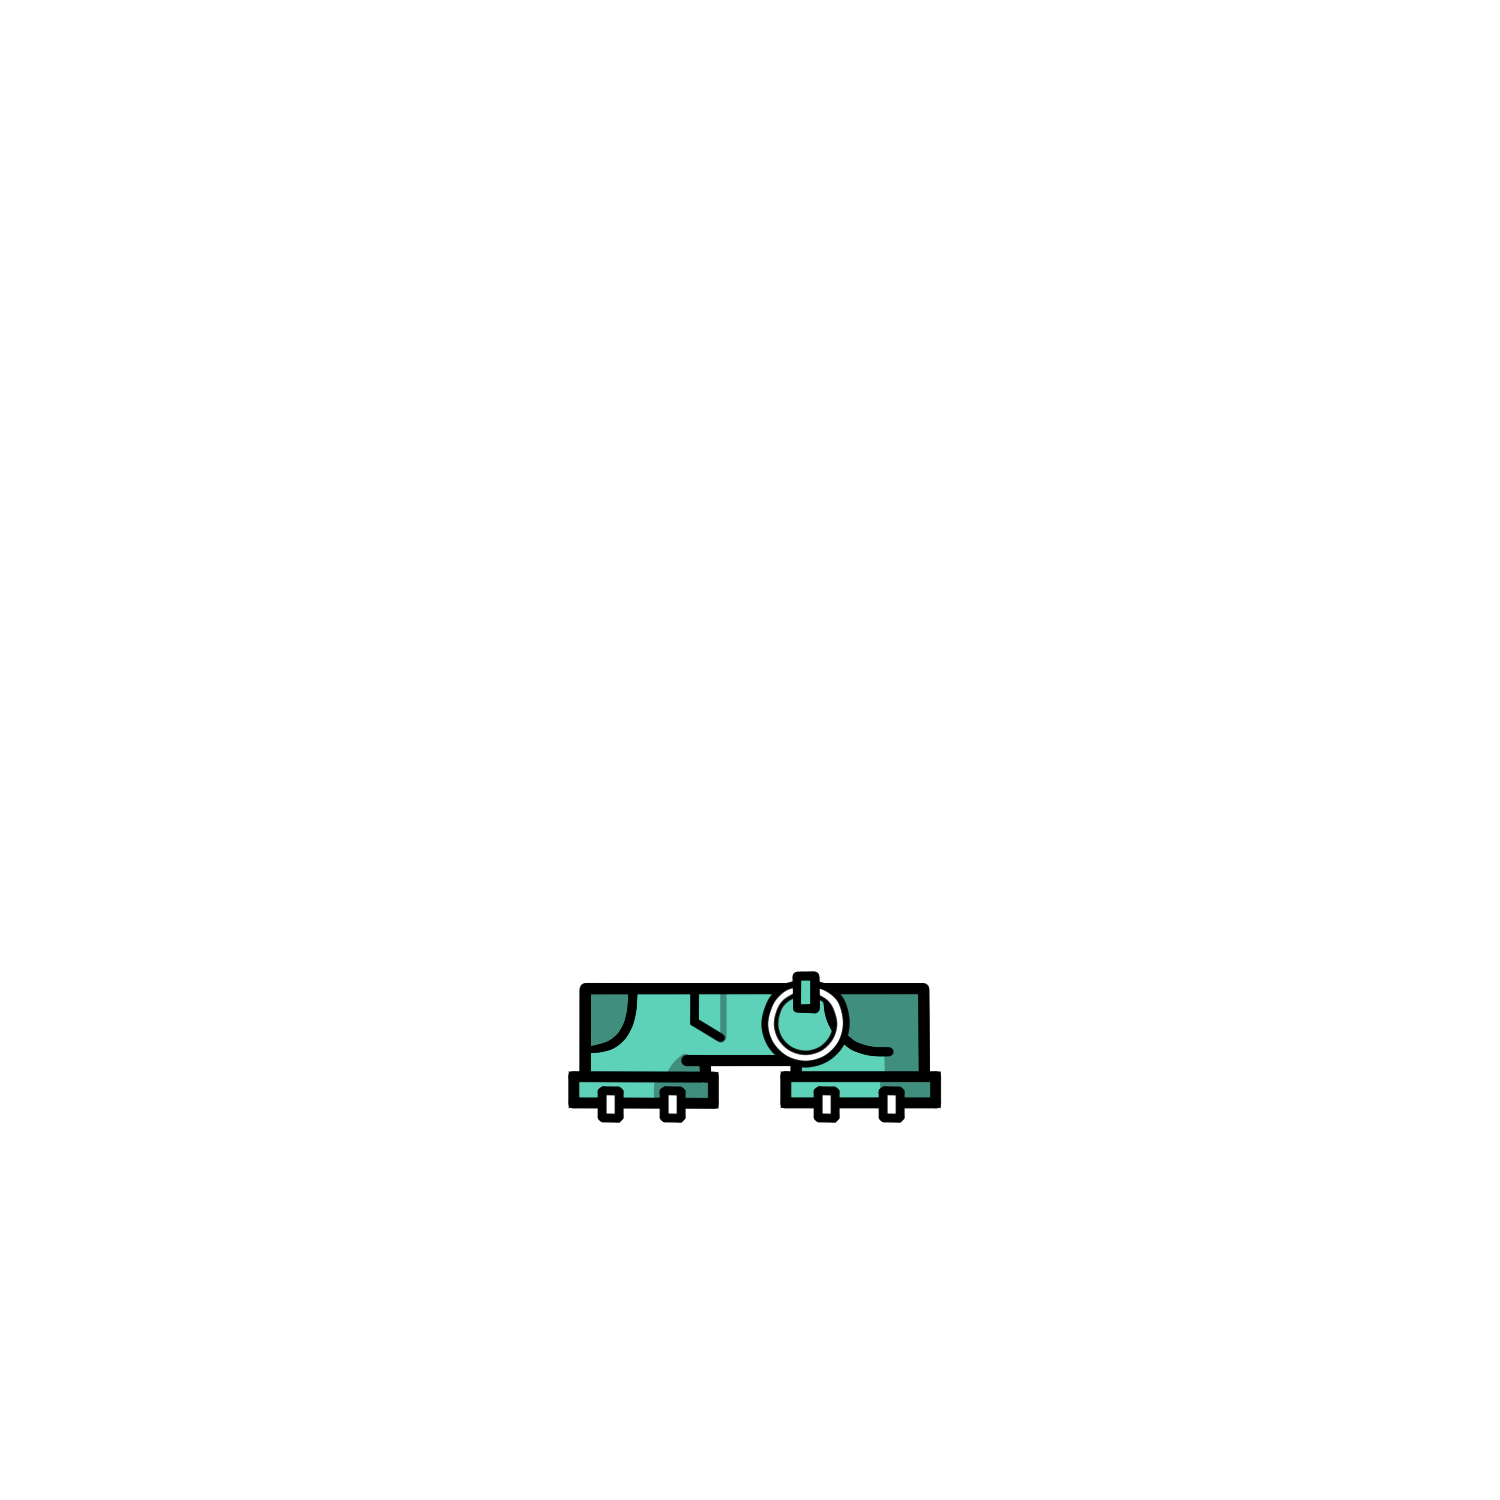
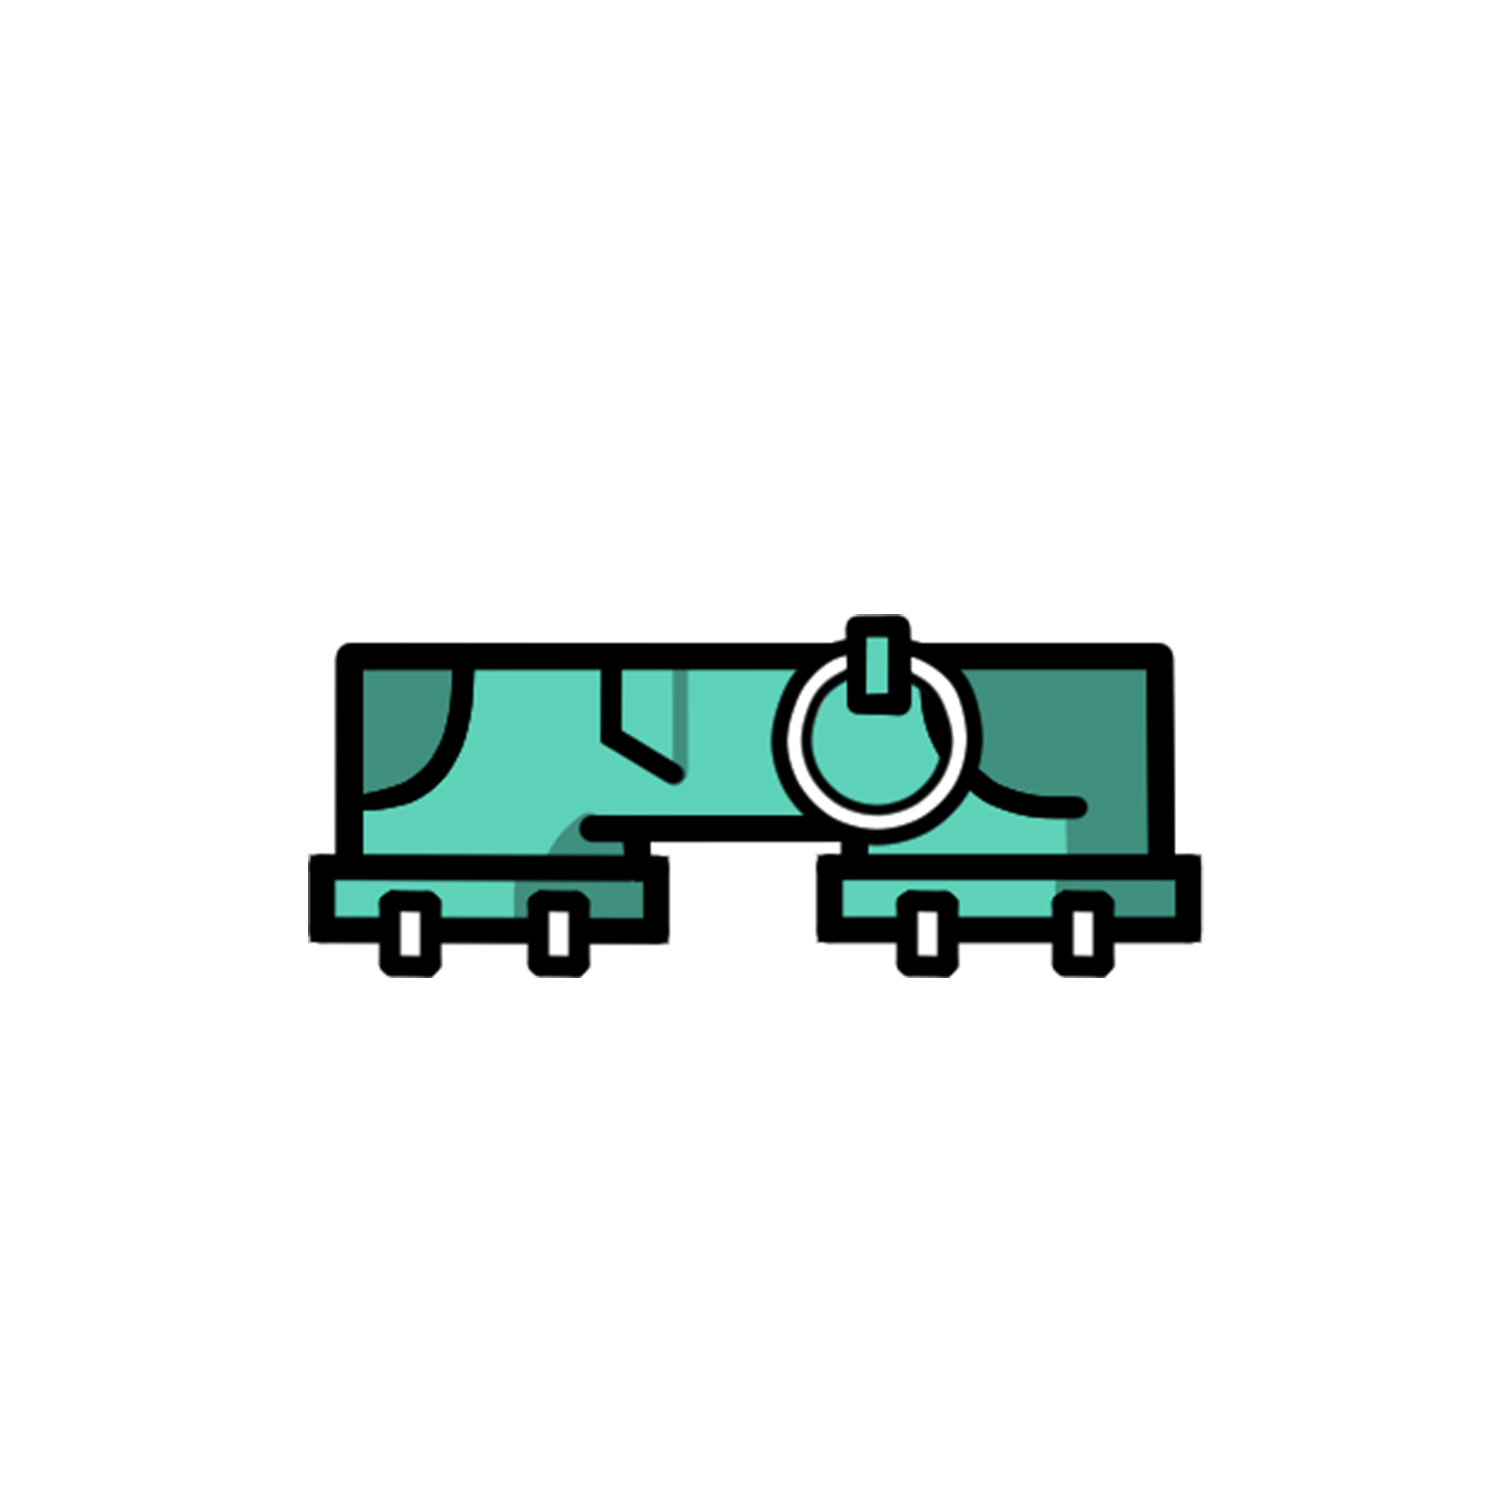
bottom-low-수정

Changed region(s): [[0.184, 0.3987, 0.828, 0.7667]]

diff --git a/kidult/src/event/HandlerEvent.js b/kidult/src/event/HandlerEvent.js
@@ -504,9 +504,14 @@ function handleBottomImg(e) {
     case "/assets/image/none.png":
       document.querySelector(".default-bottom").src = "";
       break;
-    case "/assets/image/bottom-Low/balloon-pants-brown-out.png":
+    // LOW
+    case "/assets/image/bottom-Low/choker-pants-blue-out.png":
       document.querySelector(".default-bottom").src =
-        "/assets/image/bottom-Low/balloon-pants-brown-in.png";
+        "/assets/image/bottom-Low/choker-pants-blue-in.png";
+      break;
+    case "/assets/image/bottom-Low/choker-pants-yellow-out.png":
+      document.querySelector(".default-bottom").src =
+        "/assets/image/bottom-Low/choker-pants-yellow-in.png";
       break;
     case "/assets/image/bottom-Low/long-pants-black-out.png":
       document.querySelector(".default-bottom").src =
@@ -516,6 +521,46 @@ function handleBottomImg(e) {
       document.querySelector(".default-bottom").src =
         "/assets/image/bottom-Low/long-pants-blue-in.png";
       break;
+    case "/assets/image/bottom-Low/long-pants-orange-out.png":
+      document.querySelector(".default-bottom").src =
+        "/assets/image/bottom-Low/long-pants-orange-in.png";
+      break;
+    case "/assets/image/bottom-Low/plaid-pants-black-out.png":
+      document.querySelector(".default-bottom").src =
+        "/assets/image/bottom-Low/plaid-pants-black-in.png";
+      break;
+    case "/assets/image/bottom-Low/plaid-pants-red-out.png":
+      document.querySelector(".default-bottom").src =
+        "/assets/image/bottom-Low/plaid-pants-red-in.png";
+      break;
+    case "/assets/image/bottom-Low/plaid-pants-yellow-out.png":
+      document.querySelector(".default-bottom").src =
+        "/assets/image/bottom-Low/plaid-pants-yellow-in.png";
+      break;
+    case "/assets/image/bottom-Low/ring-pants-green-out.png":
+      document.querySelector(".default-bottom").src =
+        "/assets/image/bottom-Low/ring-pants-green-in.png";
+      break;
+    case "/assets/image/bottom-Low/ring-pants-mint-out.png":
+      document.querySelector(".default-bottom").src =
+        "/assets/image/bottom-Low/ring-pants-mint-in.png";
+      break;
+    case "/assets/image/bottom-Low/ring-pants-orange-out.png":
+      document.querySelector(".default-bottom").src =
+        "/assets/image/bottom-Low/ring-pants-orange-in.png";
+      break;
+    case "/assets/image/bottom-Low/ripped-panties-black-out.png":
+      document.querySelector(".default-bottom").src =
+        "/assets/image/bottom-Low/ripped-panties-black-in.png";
+      break;
+    case "/assets/image/bottom-Low/ripped-panties-pink-out.png":
+      document.querySelector(".default-bottom").src =
+        "/assets/image/bottom-Low/ripped-panties-pink-in.png";
+      break;
+    case "/assets/image/bottom-Low/ripped-panties-red-out.png":
+      document.querySelector(".default-bottom").src =
+        "/assets/image/bottom-Low/ripped-panties-red-in.png";
+      break;
     case "/assets/image/bottom-Low/short-pants-black-out.png":
       document.querySelector(".default-bottom").src =
         "/assets/image/bottom-Low/short-pants-black-in.png";
@@ -524,23 +569,11 @@ function handleBottomImg(e) {
       document.querySelector(".default-bottom").src =
         "/assets/image/bottom-Low/short-pants-blue-in.png";
       break;
+    case "/assets/image/bottom-Low/short-pants-white-out.png":
+      document.querySelector(".default-bottom").src =
+        "/assets/image/bottom-Low/short-pants-white-in.png";
+      break;
 
-    case "/assets/image/bottom-Low/check-pants-green-out.png":
-      document.querySelector(".default-bottom").src =
-        "/assets/image/bottom-Low/check-pants-green-in.png";
-      break;
-    case "/assets/image/bottom-Low/choke-pants-black-out.png":
-      document.querySelector(".default-bottom").src =
-        "/assets/image/bottom-Low/choke-pants-black-in.png";
-      break;
-    case "/assets/image/bottom-Low/ring-pants-mint-out.png":
-      document.querySelector(".default-bottom").src =
-        "/assets/image/bottom-Low/ring-pants-mint-in.png";
-      break;
-    case "/assets/image/bottom-Low/ripped-panties-red-out.png":
-      document.querySelector(".default-bottom").src =
-        "/assets/image/bottom-Low/ripped-panties-red-in.png";
-      break;
     // Hight
     case "/assets/image/bottom-High/long-skirt-out.png":
       document.querySelector(".default-bottom").src =

diff --git a/kidult/src/Sotre.js b/kidult/src/Sotre.js
@@ -312,8 +312,12 @@ let bottomimg = createSlice({
     { src: "assets/image/none.png", name: "none" },
     // Low
     {
-      src: "assets/image/bottom-Low/balloon-pants-brown-out.png",
-      name: "none",
+      src: "assets/image/bottom-Low/choker-pants-blue-out.png",
+      name: "choker-pants-blue",
+    },
+    {
+      src: "assets/image/bottom-Low/choker-pants-yellow-out.png",
+      name: "choker-pants-yellow",
     },
     {
       src: "assets/image/bottom-Low/long-pants-black-out.png",
@@ -324,6 +328,46 @@ let bottomimg = createSlice({
       name: "long-pants-blue",
     },
     {
+      src: "assets/image/bottom-Low/long-pants-orange-out.png",
+      name: "long-pants-orange",
+    },
+    {
+      src: "assets/image/bottom-Low/plaid-pants-black-out.png",
+      name: "plaid-pants-black",
+    },
+    {
+      src: "assets/image/bottom-Low/plaid-pants-red-out.png",
+      name: "plaid-pants-red",
+    },
+    {
+      src: "assets/image/bottom-Low/plaid-pants-yellow-out.png",
+      name: "plaid-pants-yellow",
+    },
+    {
+      src: "assets/image/bottom-Low/ring-pants-green-out.png",
+      name: "ring-pants-green",
+    },
+    {
+      src: "assets/image/bottom-Low/ring-pants-mint-out.png",
+      name: "ring-pants-mint",
+    },
+    {
+      src: "assets/image/bottom-Low/ring-pants-orange-out.png",
+      name: "ring-pants-orange",
+    },
+    {
+      src: "assets/image/bottom-Low/ripped-panties-black-out.png",
+      name: "ripped-panties-black",
+    },
+    {
+      src: "assets/image/bottom-Low/ripped-panties-pink-out.png",
+      name: "ripped-panties-pink",
+    },
+    {
+      src: "assets/image/bottom-Low/ripped-panties-red-out.png",
+      name: "ripped-panties-red",
+    },
+    {
       src: "assets/image/bottom-Low/short-pants-black-out.png",
       name: "short-pants-black",
     },
@@ -332,20 +376,8 @@ let bottomimg = createSlice({
       name: "short-pants-blue",
     },
     {
-      src: "assets/image/bottom-Low/check-pants-green-out.png",
-      name: "check-pants-green",
-    },
-    {
-      src: "assets/image/bottom-Low/choke-pants-black-out.png",
-      name: "choke-pants-black",
-    },
-    {
-      src: "assets/image/bottom-Low/ring-pants-mint-out.png",
-      name: "ring-pants-mint",
-    },
-    {
-      src: "assets/image/bottom-Low/ripped-panties-red-out.png",
-      name: "ripped-panties-red",
+      src: "assets/image/bottom-Low/short-pants-white-out.png",
+      name: "short-pants-white",
     },
 
     // Hight
